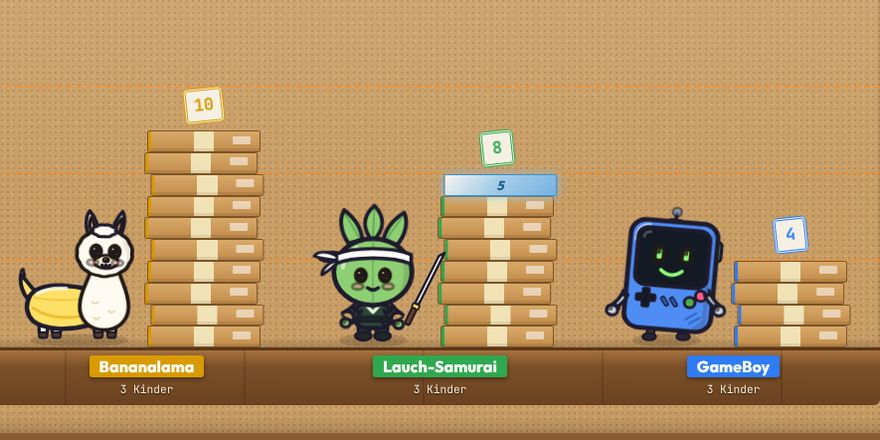
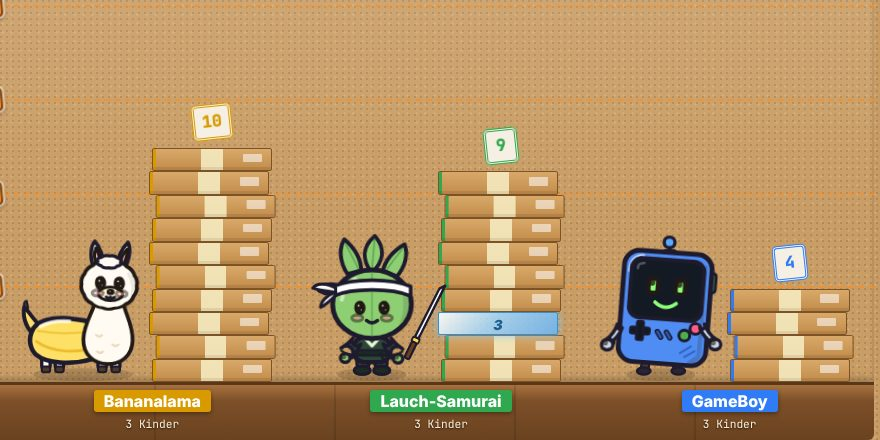
Kistensturm: geklaute und gemischte Kisten in Teamfarbe, Möwe klaut nicht mehr doppelt, neues Eis-Foto
- Migration 0246 ersetzt dd_storm_use: Möwe/3 Möwen färben die geklaute
  Kiste in die Farbe des Teams, das klaut; Kuddelmuddel färbt jede Kiste
  in die Farbe des Teams, bei dem sie landet. Prüfstand 0240 erweitert.
- stApply verwirft Ansichten, die älter sind als der Stand (v.seq < st.seq).
  Eine Abfrage, die vor dem Einsetzen losging und danach ankam, ließ den
  Turm zurückspringen und die Kiste ein zweites Mal verschwinden.
- img/item-eis.jpg neu aufgenommen: Eiskiste unten im Turm.
- Stempel V / lib/tool.js auf 20261030i.

Claude-Session: https://claude.ai/code/session_01SoWN1kSqR6aqm2xu9SQ1tP

diff --git a/MPSkills/tools/DefinitionsDerby/tool.js b/MPSkills/tools/DefinitionsDerby/tool.js
@@ -74,7 +74,7 @@
 (function () {
   'use strict';
 
-  const V = '20261030h';
+  const V = '20261030i';
   const BASE = 'tools/DefinitionsDerby/';
   const MAX_SHARED = 20;          // data.shared muss in 8 KB passen
   const LEVELS = ['neu', 'unsicher', 'teilweise', 'sicher'];
@@ -3875,6 +3875,10 @@
   /* ─── Neue Ansicht vom Server ─── */
   function stApply(v) {
     const newRun = st.run !== null && v.run !== st.run;
+    // Eine Abfrage, die vor dem Einsetzen/Antworten losging und erst danach
+    // ankommt, ist älter als der Stand: verwerfen, sonst springt ein Turm
+    // zurück und verliert die Kiste ein zweites Mal (Möwe „klaut doppelt“).
+    if (!newRun && st.v && (v.seq || 0) < st.seq) return;
     if (newRun) {                       // neues Spiel: Türme und Aufgaben von vorn
       st.shown = []; st.anim.forEach(a => clearTimeout(a)); st.anim = []; st.hold = [];
       st.task = null; st.order = []; st.oi = 0;

diff --git a/MPSkills/index.html b/MPSkills/index.html
@@ -555,7 +555,7 @@
      das Drehbuch je Skill; das Werkzeug selbst (137 KB) kommt erst,
      wenn jemand eine Kachel öffnet — und mit ihm lib/tool.js. Wer
      nur die Liste anschaut, lädt nichts davon. -->
-<script src="lib/preview.js?v=20261030h"></script>
+<script src="lib/preview.js?v=20261030i"></script>
 <script src="preview/wordcloud.js?v=20260819d"></script>
 <script src="preview/neurolab.js?v=20260819b"></script>
 <script src="preview/caesar.js?v=20260820"></script>

diff --git a/MPSkills/lib/preview.js b/MPSkills/lib/preview.js
@@ -415,7 +415,7 @@
     if (window.MPTool) return Promise.resolve();
     return new Promise((resolve, reject) => {
       const s = document.createElement('script');
-      s.src = 'lib/tool.js?v=20261030h';
+      s.src = 'lib/tool.js?v=20261030i';
       s.onload  = () => window.MPTool ? resolve() : reject(new Error('MPTool fehlt'));
       s.onerror = () => reject(new Error('lib/tool.js nicht gefunden'));
       document.head.appendChild(s);

diff --git a/MPSkills/lib/tool.js b/MPSkills/lib/tool.js
@@ -105,7 +105,7 @@
        neue Reliefkarte von Wordisland unter — der Umbau war fertig,
        auf dem Bildschirm stand die alte Karte, und es sah aus, als
        wäre nichts geschehen. */
-    const v = '?v=20261030h';
+    const v = '?v=20261030i';
 
     loading[id] = new Promise((resolve, reject) => {
       // Das Stylesheet wird nicht abgewartet: ein Werkzeug, das auf

diff --git a/MPSkills/j.html b/MPSkills/j.html
@@ -77,7 +77,7 @@
      dazuholen" raus ist. Die Tür gehört der Tafel. -->
 <script src="lib/room.js?v=20261024b"></script>
 <script src="lib/icons.js?v=20261030c"></script>
-<script src="lib/tool.js?v=20261030h"></script>
+<script src="lib/tool.js?v=20261030i"></script>
 <script src="door-login.js?v=20261017b"></script>
 <script src="j.js?v=20261024b"></script>
 </body>

diff --git a/MPSkills/lehrer.html b/MPSkills/lehrer.html
@@ -55,7 +55,7 @@
 <script src="lib/qr.js?v=20260817"></script>
 <script src="lib/room.js?v=20261024b"></script>
 <script src="lib/icons.js?v=20261030c"></script>
-<script src="lib/tool.js?v=20261030h"></script>
+<script src="lib/tool.js?v=20261030i"></script>
 <script src="tools.js?v=20261030c"></script>
 <script src="lehrer.js?v=20261024"></script>
 </body>

diff --git a/MPSkills/derby.html b/MPSkills/derby.html
@@ -44,7 +44,7 @@
 <script src="../avatars.js?v=20261028a"></script>
 <script src="lib/userbar.js?v=20261021"></script>
 <script src="lib/profilemodal.js?v=20261024"></script>
-<script src="lib/tool.js?v=20261030h"></script>
+<script src="lib/tool.js?v=20261030i"></script>
 <script src="derby.js?v=20261026b"></script>
 </body>
 </html>

diff --git a/MPSkills/insel.html b/MPSkills/insel.html
@@ -56,7 +56,7 @@
 <script src="../avatars.js?v=20261028a"></script>
 <script src="lib/userbar.js?v=20261020"></script>
 <script src="lib/room.js?v=20261024b"></script>
-<script src="lib/tool.js?v=20261030h"></script>
+<script src="lib/tool.js?v=20261030i"></script>
 <script src="insel.js?v=20260923"></script>
 </body>
 </html>

diff --git a/MPSkills/tools/DefinitionsDerby/CLAUDE.md b/MPSkills/tools/DefinitionsDerby/CLAUDE.md
@@ -72,7 +72,7 @@ Erste Lernform **„Zusammen im Netz“** (`storm`, `GAMES` mit `net: true`, nur
 - **Beamer** (`stSceneBeam`): Holzleiste unten mit Teamschild, je Team ein Turm aus **Pappkartons mit Klebeband** (`.dd-st__box`, Streifen in Teamfarbe), die Figur steht links daneben; neue Kiste = Figur hebt (`stLift`) und die Kiste rutscht unten hinein (`.is-new`, `column-reverse`, erstes Kind = unten), Kiste für Kiste je Team nachgezogen (`stSync`/`stStep`, `ST_STEP_MS`; weit zurück → springen bis auf 3). Kistenhöhe so, dass das Ziel genau unter das **Absperrband** passt (`stLayout`, `--bh`; unter 12 px ohne Klebeband-Details `is-thin`). Höhe als Stempel über dem Turm, darüber „Name +1“-Zettel. Countdown „Bereit? 3-2-1 Los!“ als großer Stempel, Uhr oben (rot in den letzten 30 s), Vollbild-Knopf. Ende: Siegerkarte (Figur jubelt, Platzierung, „Nochmal“), am Turm jubelt der Sieger, die anderen sind traurig.
 - **Tablet** (`stSceneDev`): Papierkarte mit allen Teams als Balken (eigenes Team hervorgehoben, „ihr“, große Figur, die mithebt; „+1 Name“ nur fürs eigene Team), darunter die Stufe der Aufgaben, dann das Aufgabenblatt. Lobby: „Du bist in Team X“ mit winkender Figur und den Namen; Ende: eigene Figur jubelt/traurig, Platzierung, „Du hast n Kisten beigetragen“.
 - **Bildschirmfoto** `img/spiel-kistensturm.jpg`, Mini-Bild `MINI.storm` (vier Türme, Absperrband).
-- **Items (Migration 0240, Sönkes Liste 30.10.2026)**: Item-Linien zwischen den Aufgabenstufen (20/40/60/80 % des Ziels, Lehrkraft „häufig“ = alle 10 %, doppelt so viele Items); wer eine Linie überquert, bekommt ein Item fürs Team — **jedes Mal**, auch nach Kistenverlust erneut (Migration 0241: `line_max` = Linie, über der der Turm gerade steht, sinkt per Trigger `dd_storm_teams_relevel` mit der Höhe; Sönke: „Die Linie gilt immer!“) (höchstens 2, `dd_storm_teams.items`), **jedes Teammitglied** kann es am Tablet einsetzen (`dd_storm_use(p_token, p_slot, p_since)`). Welches, würfelt `dd_storm_draw` nach Platz (Gewichte je Gruppe Erster/vordere/hintere/Letzter, Tabelle in der Funktion; ausgeschaltete Items fallen raus). Lobby: Items an/aus, normal/häufig, jedes Item an/aus (`dd_storm_room_items`, nur in der Lobby). Die 12 Items: **Bonus-Kisten** (+2 Gold) · **Steinkiste** (Möwe/Sturm/Boom kommen nicht an Darunterliegendes, `dd_storm_take_top` nimmt die oberste Nicht-Stein-/Nicht-Eis-Kiste) · **Möwe** (nur für Teams hinter dem Ersten: oberste Kiste des Teams direkt davor wandert zu euch) · **3 Möwen** (bis zu drei Teams davor je eine) · **Maxi-Kisten** (20 s doppelt hoch, `k:'x'`) · **Mini-Kisten** (zwei Teams davor 20 s halbe Kisten, `k:'m'`) · **Sturm** (30 s, `storm_until`: falsche Antwort kostet die oberste Kiste, aber nur ab Stufe 2, also Höhe ≥ Ziel/5) · **Teatime** (die ersten beiden Teams 10 s Pause, Antwort → Ergebnis `tea`; nicht für Teams auf Platz 1–2) · **Bus** (fährt unten durch, nimmt jedem anderen Team eine Höhe von 5 normalen Kisten, auch Steine) · **Boom** (Plasmabombe auf den Ersten: oberste 5 weg, ein Stein stoppt) · **Eiskiste** (ein anderes Team bekommt sie **ganz unten** in den Turm, Migration 0245, Sönke 30.10.2026: „man verliert nur die neuen“; die nächsten 5 Antworten müssen sitzen, sonst rutscht weg, was seitdem unter dem Eis gewachsen ist — die vorher erspielten Kisten liegen darüber und bleiben; ohne Zeitlimit) · **Kuddelmuddel** (alle Kisten aller Teams gemischt, Anzahl je Team bleibt; alle Plätze, mittel häufig). Kisten liegen als `boxes` jsonb (unten zuerst, `{k,t,n}`), `height` = Summe der Größen (numeric, halbe Kisten möglich); `dd_storm_state` schickt sie kurz als `b: ["n2","s1","i3.4"]`. Ereignisse `box/get/use/blow/icebreak/melt` mit `data` → Beamer-Animationen (`stEvent`, Möwe fliegt, Bus fährt, Bombe, Kisten rutschen) und Ansage oben; Wirkungen mit Zeit als Abzeichen über der Figur (`#ddStX`), gehaltene Items neben dem Teamnamen (`#ddStI`), am Tablet im Spiel nur Item-Bild + „Einsetzen“ (`#ddStItems`, Name als title) und Teepause-Schleier. Erklärung der Items in der Lobby: Lehrkraft hat an jedem Item ein „i“, Schüler sehen unter ihrer Teamkarte „Items in diesem Spiel“ (nur eingeschaltete, antippen) → Fenster `stItemInfo` mit Bildschirmfoto `img/item-<id>.jpg` (880×440, aus dem Beamer im Testserver geschnitten) + Kurztext. **Layout (Sönke 30.10.2026: „am Handy ohne Scrollen weiterkommen“)**: am Handy (≤ 600 px) im Spiel schmaler Rahmen, Kopf nur „Lernformen“, Rennen als kleine Türme nebeneinander (Balken über `--p`, Linien über `--y`), Meldungen schweben oben (fixed), Aufgabe kompakt; `stFitPhone()` schiebt den Spielbereich bei jeder neuen Aufgabe an den oberen Rand und holt Rückmeldung/„Weiter“ ins Bild. Beamer: Spielfeld so hoch wie bis zum Fensterrand (`stLayout`), Kisten schrumpfen, wenn ein Turm über das Ziel ragt (`st.tall`), Fragezeichen der Item-Linien in eigenem Streifen links. Lückentext-Kästchen brechen um (`.dd-gapw` flex-wrap).
+- **Items (Migration 0240, Sönkes Liste 30.10.2026)**: Item-Linien zwischen den Aufgabenstufen (20/40/60/80 % des Ziels, Lehrkraft „häufig“ = alle 10 %, doppelt so viele Items); wer eine Linie überquert, bekommt ein Item fürs Team — **jedes Mal**, auch nach Kistenverlust erneut (Migration 0241: `line_max` = Linie, über der der Turm gerade steht, sinkt per Trigger `dd_storm_teams_relevel` mit der Höhe; Sönke: „Die Linie gilt immer!“) (höchstens 2, `dd_storm_teams.items`), **jedes Teammitglied** kann es am Tablet einsetzen (`dd_storm_use(p_token, p_slot, p_since)`). Welches, würfelt `dd_storm_draw` nach Platz (Gewichte je Gruppe Erster/vordere/hintere/Letzter, Tabelle in der Funktion; ausgeschaltete Items fallen raus). Lobby: Items an/aus, normal/häufig, jedes Item an/aus (`dd_storm_room_items`, nur in der Lobby). Die 12 Items: **Bonus-Kisten** (+2 Gold) · **Steinkiste** (Möwe/Sturm/Boom kommen nicht an Darunterliegendes, `dd_storm_take_top` nimmt die oberste Nicht-Stein-/Nicht-Eis-Kiste) · **Möwe** (nur für Teams hinter dem Ersten: oberste Kiste des Teams direkt davor wandert zu euch und bekommt eure Farbe — Migration 0246, Sönke 30.10.2026; die Möwe am Beamer trägt sie noch in der alten Farbe, `data.b<team>`) · **3 Möwen** (bis zu drei Teams davor je eine) · **Maxi-Kisten** (20 s doppelt hoch, `k:'x'`) · **Mini-Kisten** (zwei Teams davor 20 s halbe Kisten, `k:'m'`) · **Sturm** (30 s, `storm_until`: falsche Antwort kostet die oberste Kiste, aber nur ab Stufe 2, also Höhe ≥ Ziel/5) · **Teatime** (die ersten beiden Teams 10 s Pause, Antwort → Ergebnis `tea`; nicht für Teams auf Platz 1–2) · **Bus** (fährt unten durch, nimmt jedem anderen Team eine Höhe von 5 normalen Kisten, auch Steine) · **Boom** (Plasmabombe auf den Ersten: oberste 5 weg, ein Stein stoppt) · **Eiskiste** (ein anderes Team bekommt sie **ganz unten** in den Turm, Migration 0245, Sönke 30.10.2026: „man verliert nur die neuen“; die nächsten 5 Antworten müssen sitzen, sonst rutscht weg, was seitdem unter dem Eis gewachsen ist — die vorher erspielten Kisten liegen darüber und bleiben; ohne Zeitlimit) · **Kuddelmuddel** (alle Kisten aller Teams gemischt, Anzahl je Team bleibt, jede Kiste bekommt die Farbe des Teams, bei dem sie landet (0246); alle Plätze, mittel häufig). Kisten liegen als `boxes` jsonb (unten zuerst, `{k,t,n}`), `height` = Summe der Größen (numeric, halbe Kisten möglich); `dd_storm_state` schickt sie kurz als `b: ["n2","s1","i3.4"]`. **Veraltete Ansichten verwirft `stApply`** (`v.seq < st.seq` im selben Spiel): eine Abfrage, die vor dem Einsetzen/Antworten losging und danach ankommt, ließ sonst Türme zurückspringen — die Möwe sah aus, als klaute sie doppelt (Sönke 30.10.2026). Ereignisse `box/get/use/blow/icebreak/melt` mit `data` → Beamer-Animationen (`stEvent`, Möwe fliegt, Bus fährt, Bombe, Kisten rutschen) und Ansage oben; Wirkungen mit Zeit als Abzeichen über der Figur (`#ddStX`), gehaltene Items neben dem Teamnamen (`#ddStI`), am Tablet im Spiel nur Item-Bild + „Einsetzen“ (`#ddStItems`, Name als title) und Teepause-Schleier. Erklärung der Items in der Lobby: Lehrkraft hat an jedem Item ein „i“, Schüler sehen unter ihrer Teamkarte „Items in diesem Spiel“ (nur eingeschaltete, antippen) → Fenster `stItemInfo` mit Bildschirmfoto `img/item-<id>.jpg` (880×440, aus dem Beamer im Testserver geschnitten: pglite mit allen Migrationen, Lehrkraft-Seite mit `MPTool.presenterActions`, Türme per `dd_storm_put` gesetzt, Fenster 1000×760, Ausschnitt unten aus `#ddStScene`, JPEG 82) + Kurztext. **Layout (Sönke 30.10.2026: „am Handy ohne Scrollen weiterkommen“)**: am Handy (≤ 600 px) im Spiel schmaler Rahmen, Kopf nur „Lernformen“, Rennen als kleine Türme nebeneinander (Balken über `--p`, Linien über `--y`), Meldungen schweben oben (fixed), Aufgabe kompakt; `stFitPhone()` schiebt den Spielbereich bei jeder neuen Aufgabe an den oberen Rand und holt Rückmeldung/„Weiter“ ins Bild. Beamer: Spielfeld so hoch wie bis zum Fensterrand (`stLayout`), Kisten schrumpfen, wenn ein Turm über das Ziel ragt (`st.tall`), Fragezeichen der Item-Linien in eigenem Streifen links. Lückentext-Kästchen brechen um (`.dd-gapw` flex-wrap).
 
 ## Plan / Entscheidungen von Sönke (26.10.2026)
 
